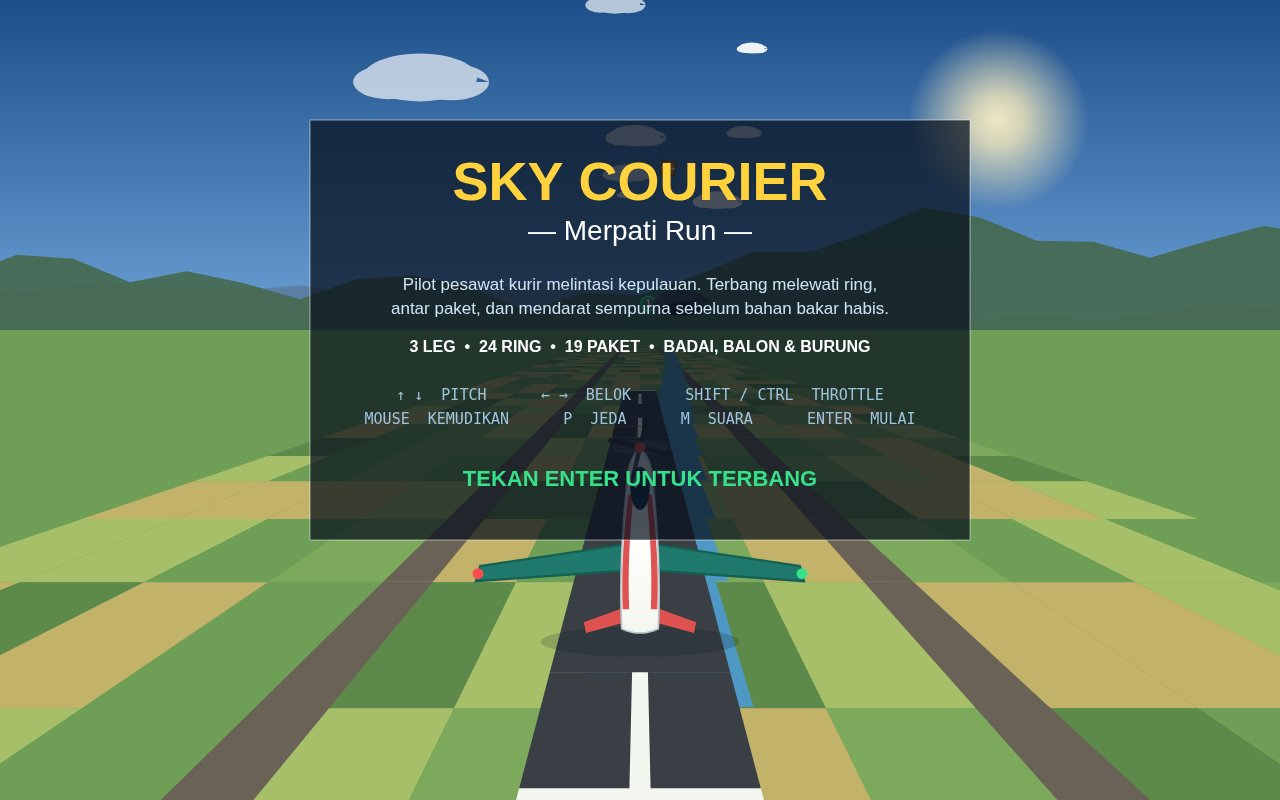
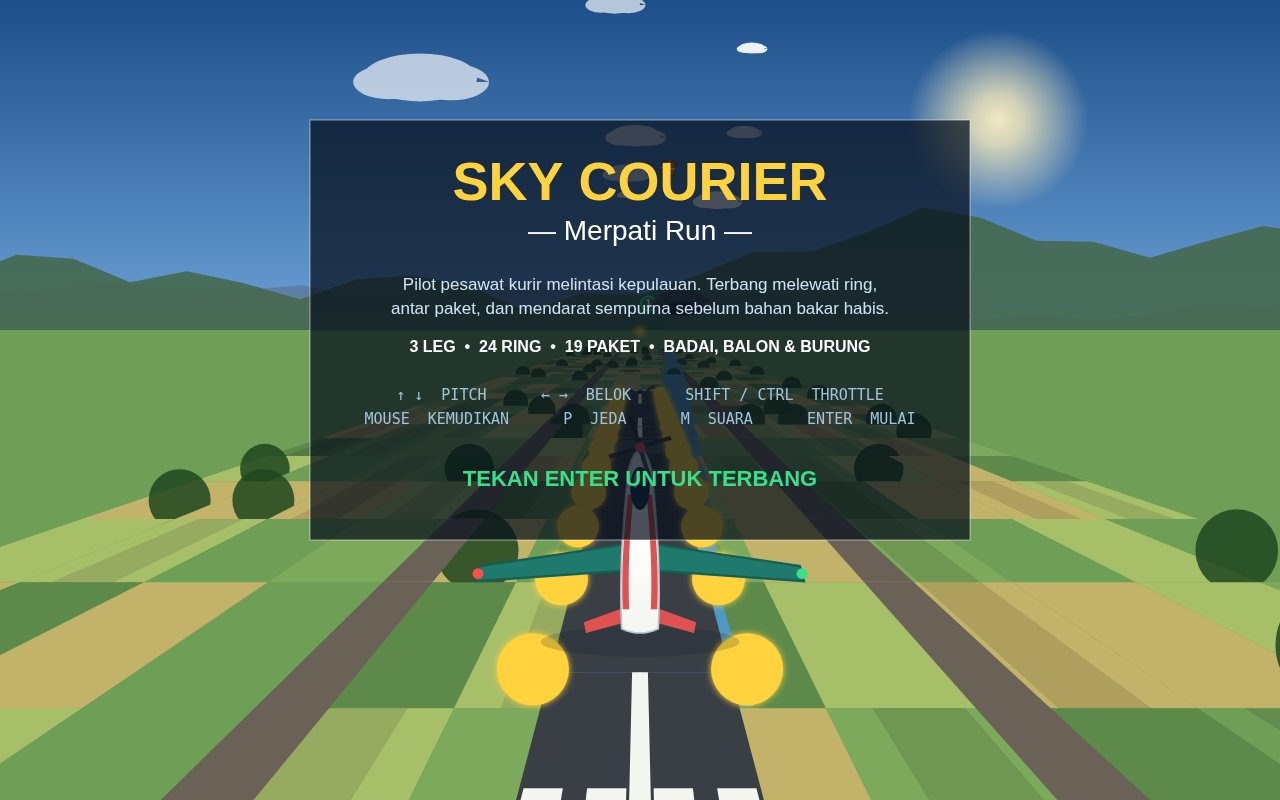
Mock-judge fixes: runway approach lights + edge lights + landing beacon, field texture, drifting storm clouds and birds, closer landing shot

diff --git a/game/src/render.js b/game/src/render.js
@@ -161,6 +161,28 @@ export class Renderer {
         ctx.lineTo(d.x, d.y);
         ctx.closePath();
         ctx.fill();
+        // Tekstur petak: bayangan dalam + rumpun pohon sesekali, supaya
+        // ladang tidak terlihat seperti blok warna polos dari kejauhan.
+        const detail = cellHash(cx, Math.floor(z0 / 25), 99);
+        if (detail < 0.45) {
+          ctx.fillStyle = 'rgba(0, 0, 0, 0.10)';
+          ctx.beginPath();
+          ctx.moveTo(lerp(a.x, b.x, 0.25), lerp(a.y, b.y, 0.25));
+          ctx.lineTo(lerp(b.x, a.x, 0.25), lerp(b.y, a.y, 0.25));
+          ctx.lineTo(lerp(c.x, d.x, 0.25), lerp(c.y, d.y, 0.25));
+          ctx.lineTo(lerp(d.x, c.x, 0.25), lerp(d.y, c.y, 0.25));
+          ctx.closePath();
+          ctx.fill();
+        } else if (detail > 0.96) {
+          // Rumpun pohon kecil: jarang, mungil, lonjong seperti semak.
+          const tx = (a.x + b.x + c.x + d.x) / 4;
+          const ty = (a.y + b.y + c.y + d.y) / 4;
+          const tr = Math.max(1, 1.1 * a.s);
+          ctx.fillStyle = 'rgba(38, 84, 38, 0.9)';
+          ctx.beginPath();
+          ctx.ellipse(tx, ty, tr, tr * 0.6, 0, 0, Math.PI * 2);
+          ctx.fill();
+        }
       }
       // Jalan utama membelah petak.
       for (const rx of world.roadX()) {
@@ -253,14 +275,50 @@ export class Renderer {
           ctx.fill();
         }
       }
+      // Lampu tepi landasan: titik kuning menyala di kedua sisi, supaya
+      // landasan terbaca dari jauh saat approach.
+      for (const ex of [-9.5, 9.5]) {
+        const e = this.project(ex, 0.4, z, cam, p.heading, p.pitch);
+        if (!e) continue;
+        const r = Math.max(1.2, 3.2 * e.s);
+        ctx.save();
+        ctx.fillStyle = '#ffd23e';
+        ctx.shadowColor = '#ffd23e';
+        ctx.shadowBlur = 6;
+        ctx.beginPath();
+        ctx.arc(e.x, e.y, r, 0, Math.PI * 2);
+        ctx.fill();
+        ctx.restore();
+      }
     }
-    // Ambang landasan: garis putih tebal di kedua ujung.
+    // Lampu approach: baris cahaya putih menuju ambang landasan.
+    for (let z = zStart - 160; z < zStart - 10; z += 20) {
+      const a = this.project(-5, 0.3, z, cam, p.heading, p.pitch);
+      const b = this.project(5, 0.3, z, cam, p.heading, p.pitch);
+      const c = this.project(5, 0.3, z + 8, cam, p.heading, p.pitch);
+      const d = this.project(-5, 0.3, z + 8, cam, p.heading, p.pitch);
+      if (!a || !b || !c || !d) continue;
+      ctx.save();
+      ctx.fillStyle = 'rgba(255, 244, 200, 0.95)';
+      ctx.shadowColor = '#fff3c4';
+      ctx.shadowBlur = 8;
+      ctx.beginPath();
+      ctx.moveTo(a.x, a.y);
+      ctx.lineTo(b.x, b.y);
+      ctx.lineTo(c.x, c.y);
+      ctx.lineTo(d.x, d.y);
+      ctx.closePath();
+      ctx.fill();
+      ctx.restore();
+    }
+    // Ambang landasan: empat bilah putih (piano keys) di kedua ujung.
     for (const zt of [zStart, zEnd - 6]) {
-      const a = this.project(-8, 0.2, zt, cam, p.heading, p.pitch);
-      const b = this.project(8, 0.2, zt, cam, p.heading, p.pitch);
-      const c = this.project(8, 0.2, zt + 6, cam, p.heading, p.pitch);
-      const d = this.project(-8, 0.2, zt + 6, cam, p.heading, p.pitch);
-      if (a && b && c && d) {
+      for (const bcx of [-6.4, -2.2, 2.2, 6.4]) {
+        const a = this.project(bcx - 1.3, 0.2, zt, cam, p.heading, p.pitch);
+        const b = this.project(bcx + 1.3, 0.2, zt, cam, p.heading, p.pitch);
+        const c = this.project(bcx + 1.3, 0.2, zt + 6, cam, p.heading, p.pitch);
+        const d = this.project(bcx - 1.3, 0.2, zt + 6, cam, p.heading, p.pitch);
+        if (!a || !b || !c || !d) continue;
         ctx.fillStyle = COLORS.runwayMark;
         ctx.beginPath();
         ctx.moveTo(a.x, a.y);
@@ -661,6 +719,38 @@ export class Renderer {
         W / 2,
         H - 178,
       );
+    }
+    // Beacon ambang landasan: berlian berdenyut + jarak, supaya landasan
+    // selalu terbaca dari kejauhan saat approach.
+    if (p.z < state.world.runwayEndZ && p.z > state.world.runwayEndZ - 900 && !p.landed) {
+      const cam = this.camera(p);
+      const bp = this.project(0, 4, state.world.runwayEndZ, cam, p.heading, p.pitch);
+      if (bp && bp.y > 90 && bp.y < H - 200) {
+        const pulse = 0.6 + 0.4 * Math.sin(state.time * 5);
+        const bx = clamp(bp.x, 90, W - 90);
+        const by = clamp(bp.y, 100, H - 220);
+        ctx.save();
+        ctx.globalAlpha = pulse;
+        ctx.strokeStyle = '#ffd23e';
+        ctx.lineWidth = 3;
+        ctx.shadowColor = 'rgba(0, 0, 0, 0.8)';
+        ctx.shadowBlur = 6;
+        ctx.beginPath();
+        ctx.moveTo(bx, by - 16);
+        ctx.lineTo(bx + 14, by);
+        ctx.lineTo(bx, by + 16);
+        ctx.lineTo(bx - 14, by);
+        ctx.closePath();
+        ctx.stroke();
+        ctx.fillStyle = '#ffd23e';
+        ctx.font = 'bold 15px sans-serif';
+        ctx.textAlign = 'center';
+        ctx.lineWidth = 4;
+        ctx.strokeStyle = 'rgba(0, 0, 0, 0.75)';
+        ctx.strokeText(`LANDASAN ${Math.round(state.world.runwayEndZ - p.z)} m`, bx, by - 26);
+        ctx.fillText(`LANDASAN ${Math.round(state.world.runwayEndZ - p.z)} m`, bx, by - 26);
+        ctx.restore();
+      }
     }
     ctx.restore();
   }

diff --git a/game/src/shots.js b/game/src/shots.js
@@ -50,13 +50,14 @@ export function applyShot(game, shot) {
   }
   if (shot === 'landing') {
     // Final approach Leg 1: landasan di depan, pesawat sejajar, roda turun.
+    // Jarak 260 m supaya landasan + lampu approach mengisi frame.
     g.startLeg(0);
     g.mode = 'flying';
     g.plane.onGround = false;
     g.plane.x = 1.5;
-    g.plane.y = 26;
-    g.plane.z = g.world.runwayEndZ - 420;
-    g.plane.speed = 96;
+    g.plane.y = 20;
+    g.plane.z = g.world.runwayEndZ - 260;
+    g.plane.speed = 92;
     g.plane.throttle = 0.34;
     g.plane.pitch = -0.06;
     g.plane.bank = 0.02;
@@ -69,7 +70,7 @@ export function applyShot(game, shot) {
       r.passed = true;
     });
     g.time = 61.2;
-    g.messages = [{ text: 'SEMUA RING DILEWATI — MENDARAT!', color: '#ffd23e', at: 60.4 }];
+    g.messages = [{ text: 'SEMUA RING DILEWATI — MENDARAT!', color: '#ffd23e', at: 61.4 }];
     return;
   }
   if (shot === 'end') {

diff --git a/game/src/main.js b/game/src/main.js
@@ -184,6 +184,18 @@ export class Game {
     this.legTime += STEP;
     this.time += STEP;
 
+    // Rintangan hidup: awan badai melayang, burung melintasi koridor.
+    for (const ob of this.world.obstacles) {
+      if (ob.kind === 'storm') {
+        ob.x += ob.drift * STEP;
+        if (ob.x > 58 || ob.x < -58) ob.drift = -ob.drift;
+      } else if (ob.kind === 'bird') {
+        ob.x += ob.flySpeed * STEP;
+        if (ob.x > 62) ob.x = -62;
+        if (ob.x < -62) ob.x = 62;
+      }
+    }
+
     // Alarm stall berkala (maksimal tiap 1,2 detik).
     if (p.stalling && !p.onGround && this.time - this.alarmedAt > 1.2) {
       this.alarmedAt = this.time;

diff --git a/game/src/world.js b/game/src/world.js
@@ -38,6 +38,9 @@ export class Obstacle {
     this.z = z;
     this.radius = radius;
     this.phase = Math.random() * Math.PI * 2;
+    // Awan badai melayang pelan menyamping; burung terbang melintasi koridor.
+    this.drift = kind === 'storm' ? (Math.random() - 0.5) * 5 : 0;
+    this.flySpeed = kind === 'bird' ? (Math.random() < 0.5 ? -1 : 1) * (5 + Math.random() * 4) : 0;
   }
 }
 
